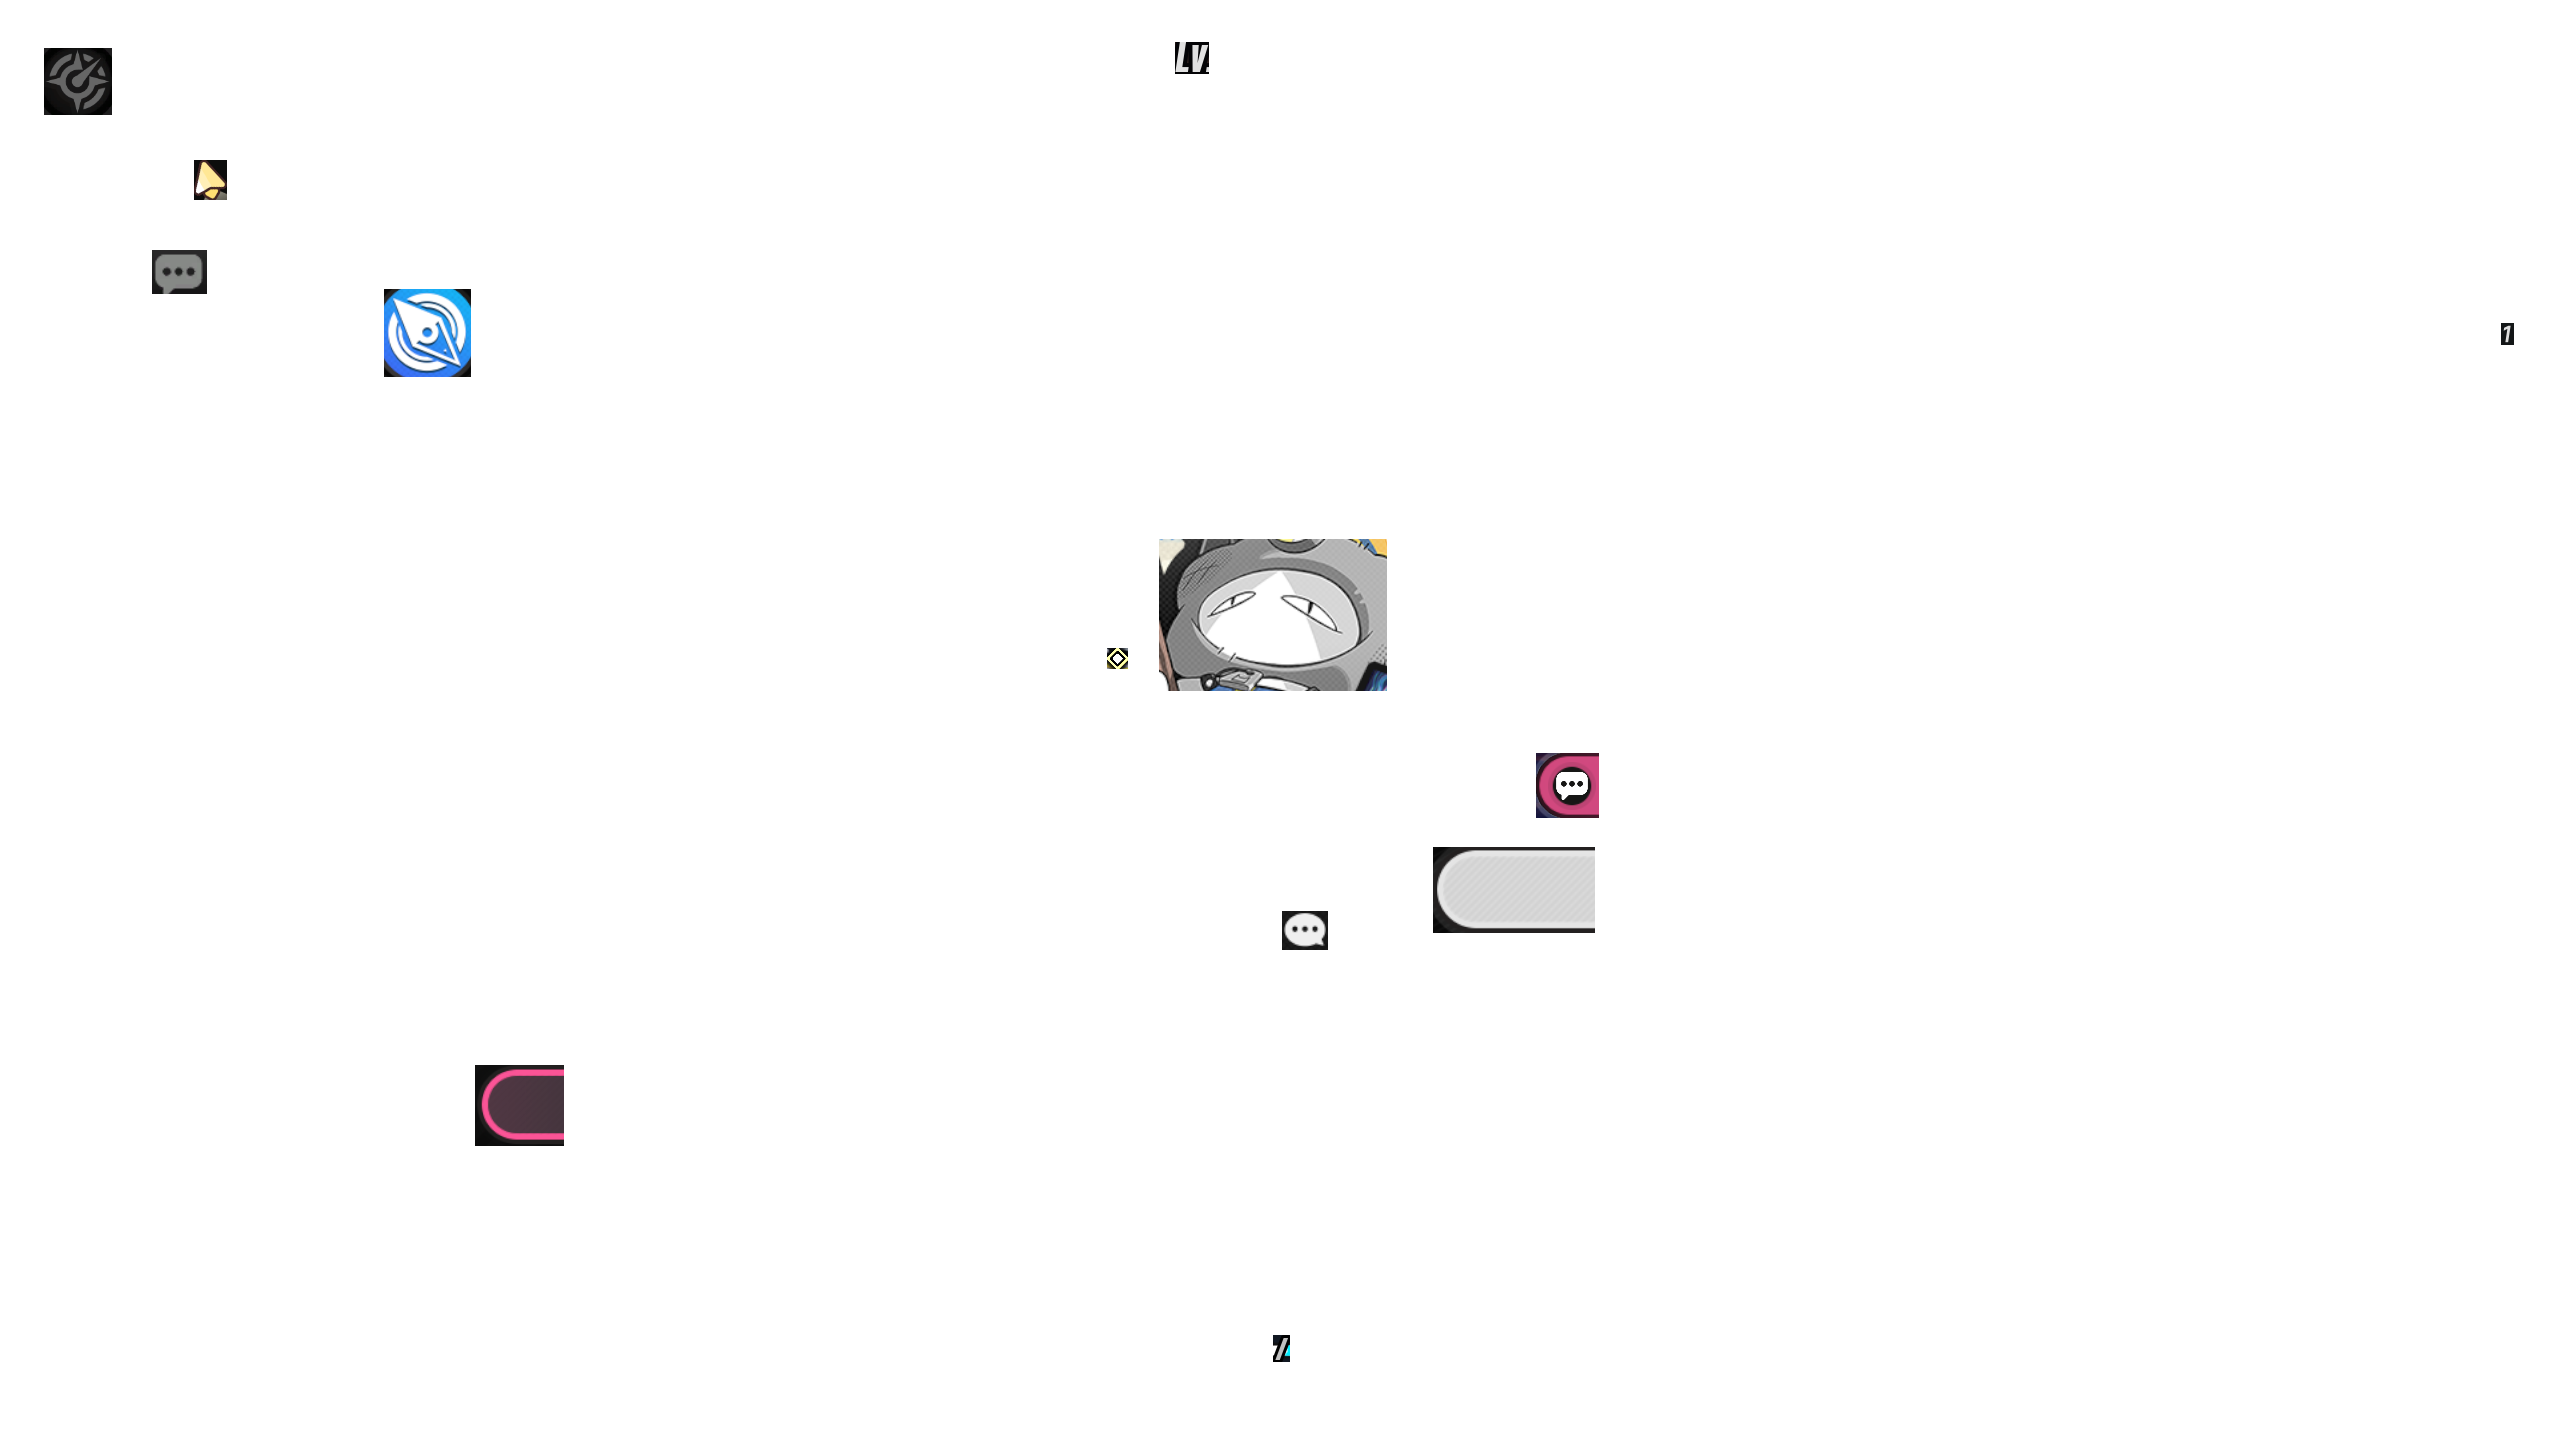
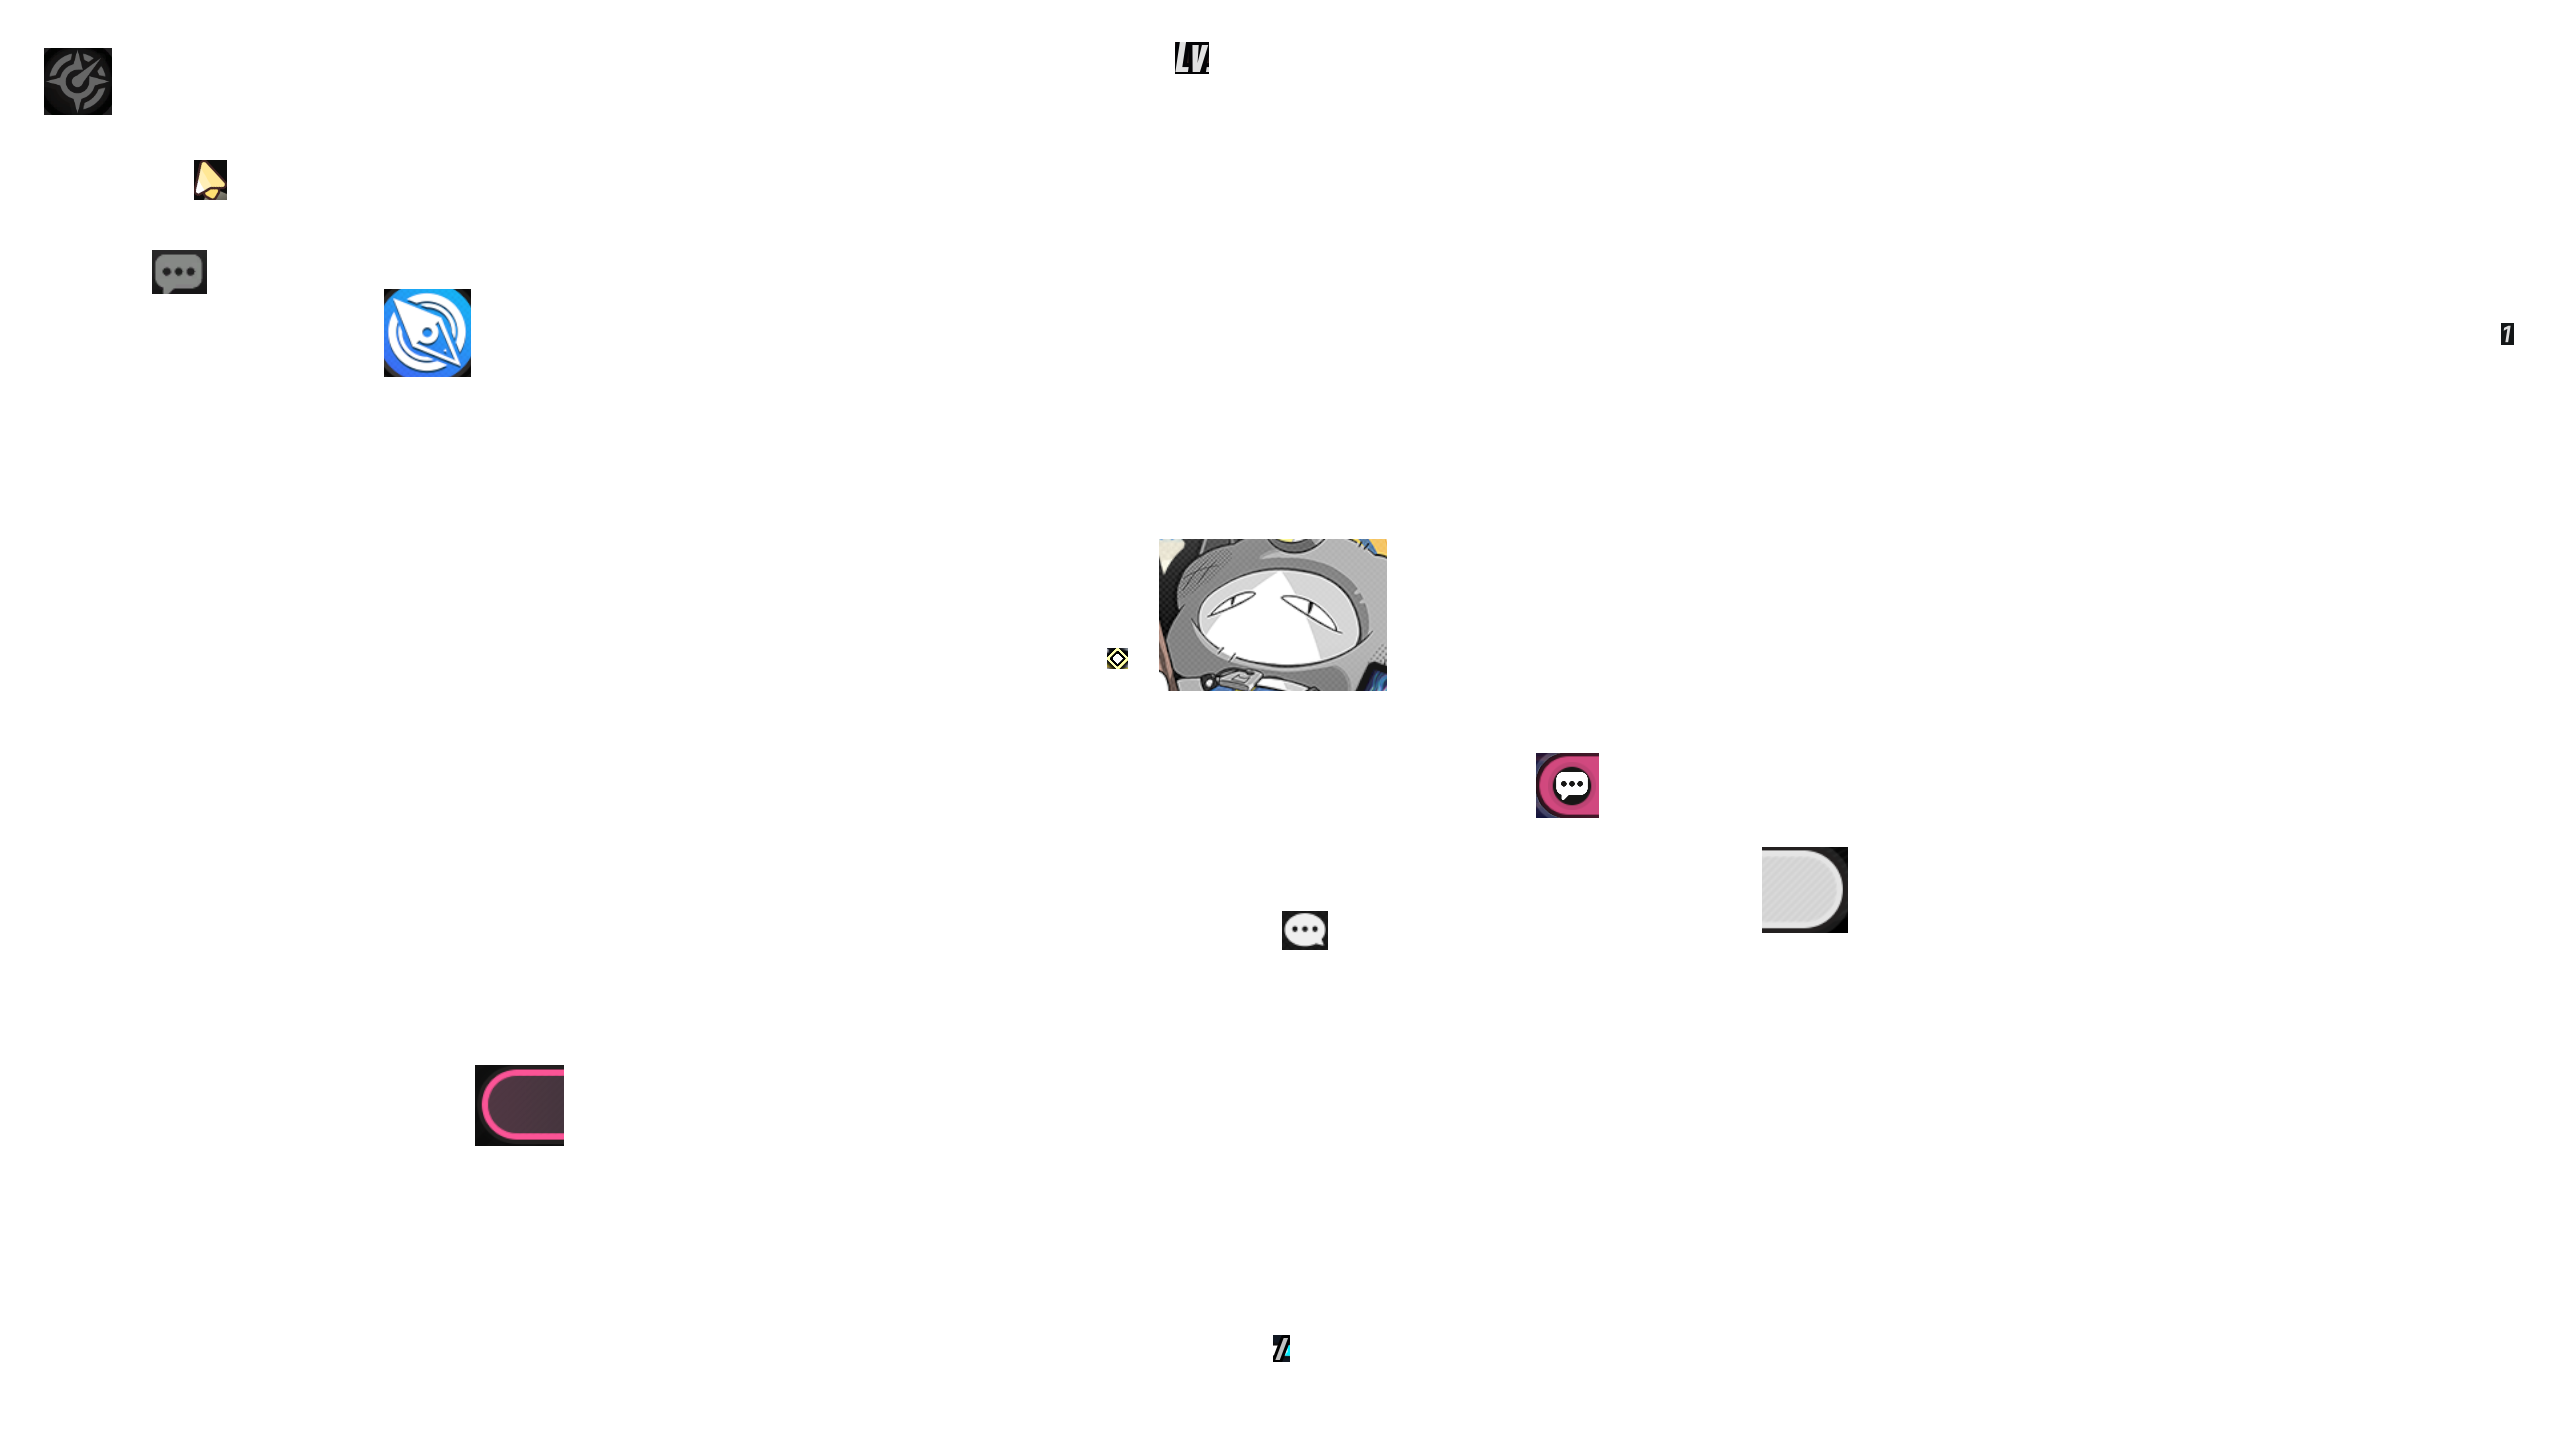
feat(tasks): 重构传送按钮识别逻辑并增加钓鱼任务中的月卡检查

Changed region(s): [[0.5625, 0.5625, 0.625, 0.6562], [0.6875, 0.5625, 0.7188, 0.6562]]

diff --git a/src/tasks/trigger/FastTravelTask.py b/src/tasks/trigger/FastTravelTask.py
@@ -19,12 +19,10 @@ class FastTravelTask(BaseNTETask, TriggerTask):
     def run(self):
         if self.scene.in_team(self.is_in_team):
             return
-        travel = self.find_one(
-            Labels.skip_quest_confirm, box=self.box_of_screen(0.7246, 0.8535, 0.8089, 0.9313)
-        )
-        if travel:
+        if btn := self.find_traval_button():
+            to_x = (btn.x + btn.width) / self.width
             results = self.ocr(
-                box=self.box_of_screen(0.7281, 0.8576, 0.9891, 0.9250),
+                box=self.box_of_screen(0.7438, 0.8736, to_x, 0.9118),
                 match=self.match,
                 frame_processor=lambda image: iu.create_color_mask(
                     image, text_black_color, invert=True
@@ -32,5 +30,5 @@ class FastTravelTask(BaseNTETask, TriggerTask):
             )
 
             if results:
-                self.click_traval_button(travel)
+                self.click_traval_button(btn)
                 return True

diff --git a/src/tasks/BaseNTETask.py b/src/tasks/BaseNTETask.py
@@ -381,13 +381,13 @@ class BaseNTETask(BaseTask):
         )
         self.send_key_up("w")
 
+    def find_traval_button(self):
+        box = self.box_of_screen(0.8160, 0.8549, 0.9902, 0.9292)
+        return self.find_one(Labels.skip_quest_confirm, box=box, use_gray_scale=True, threshold=0.6)
+
     def click_traval_button(self, travel_btn=None):
-        if travel_btn is None:
-            box = self.box_of_screen(0.7246, 0.8535, 0.7789, 0.9313)
-            for feature_name in [Labels.skip_quest_confirm]:
-                if feature := self.find_one(feature_name, threshold=0.7, box=box):
-                    travel_btn = feature
-                    break
+        if not travel_btn:
+            travel_btn = self.find_traval_button()
         if travel_btn:
             self.sleep(0.5)
             self.click(travel_btn, after_sleep=1, move=True, down_time=0.01)

diff --git a/src/tasks/FishingTask.py b/src/tasks/FishingTask.py
@@ -51,11 +51,8 @@ class FishingTask(BaseNTETask):
         self._last_bar_log_time = 0.0
         self._morph_kernel = np.ones((3, 3), dtype=np.uint8)
         self._bar_active_key = None
+        self.sleep_check_interval = 1
         self.add_exit_after_config()
-        
-    def click(self, *args, **kwargs):
-        kwargs.setdefault("move", True)
-        return super().click(*args, **kwargs)
 
     def run(self):
         NTEOneTimeTask.run(self)
@@ -66,6 +63,11 @@ class FishingTask(BaseNTETask):
         except Exception as e:
             self.log_error("FishingTask error", e)
             raise
+
+    def sleep_check(self):
+        if self.should_check_monthly_card():
+            self.handle_monthly_card()
+        return
 
     def do_run(self):
         self.reset_runtime_state()
